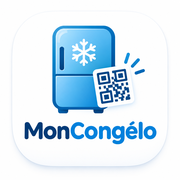
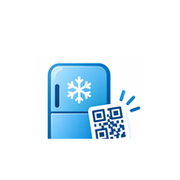
Add files via upload

diff --git a/index.html b/index.html
@@ -1,44 +1,45 @@
 <!doctype html>
 <html lang="fr"><head><meta charset="utf-8"><meta name="viewport" content="width=device-width,initial-scale=1,viewport-fit=cover"><meta name="theme-color" content="#123c67"><meta name="apple-mobile-web-app-capable" content="yes"><meta name="apple-mobile-web-app-title" content="MonCongélo"><link rel="manifest" href="manifest.json"><link rel="apple-touch-icon" href="icon-192.png"><title>MonCongélo</title>
 <style>
-:root{--navy:#123c67;--blue:#2678b8;--pale:#eef6fc;--ink:#183047;--muted:#64748b;--line:#d8e3ec;--red:#a52b2b}*{box-sizing:border-box}body{margin:0;background:#f4f8fb;color:var(--ink);font-family:-apple-system,BlinkMacSystemFont,"Segoe UI",sans-serif}header{background:var(--navy);color:white;padding:calc(14px + env(safe-area-inset-top)) 18px 18px;text-align:center}header img{width:72px;height:72px;object-fit:cover;border-radius:18px;background:white}header h1{margin:8px 0 3px;font-size:25px}header p{margin:0;color:#d9e9f7;font-size:14px}.wrap{max-width:760px;margin:auto;padding:16px 14px 40px}.home-actions{display:grid;grid-template-columns:1fr 1fr;gap:12px;margin:8px 0 20px}.big{min-height:104px;border:0;border-radius:18px;padding:16px;background:white;box-shadow:0 3px 12px #123c6710;color:var(--navy);font-size:16px;font-weight:750;text-align:left}.big span{display:block;font-size:29px;margin-bottom:8px}.panel{background:white;border:1px solid var(--line);border-radius:16px;padding:16px;margin:12px 0;box-shadow:0 2px 8px #123c6708}.hidden{display:none!important}h2{font-size:20px;margin:4px 0 14px}h3{font-size:16px;margin:0 0 8px}button,.button{border:0;border-radius:11px;background:var(--blue);color:white;font-weight:650;font-size:15px;padding:12px 14px;cursor:pointer;text-align:center;display:inline-block}button.secondary,.button.secondary{background:#edf4fa;color:var(--navy);border:1px solid #c9dbe9}button.danger{background:#fff0f0;color:var(--red);border:1px solid #efcaca}.actions{display:flex;flex-wrap:wrap;gap:8px;margin-top:12px}.actions button{flex:1}.field{margin:12px 0}label{display:block;font-size:14px;font-weight:700;margin-bottom:6px}input,textarea{width:100%;border:1px solid #c8d7e3;border-radius:10px;padding:12px;font:inherit;background:#fff;color:var(--ink)}textarea{min-height:78px;resize:vertical}input[type=file]{padding:9px}input[type=search]{background:white}.hint,.muted{color:var(--muted);font-size:13px;line-height:1.45}.topline{display:flex;align-items:center;justify-content:space-between;gap:10px}.topline button{padding:9px 11px}.stats{font-size:13px;color:var(--muted);margin:10px 2px}.item{display:grid;grid-template-columns:82px 1fr;gap:12px;padding:12px 0;border-top:1px solid var(--line)}.item img,.placeholder{width:82px;height:82px;border-radius:12px;object-fit:cover;background:var(--pale);display:flex;align-items:center;justify-content:center;font-size:27px}.item h3{margin:2px 0 5px}.item p{margin:3px 0;font-size:13px;color:var(--muted)}.item button{padding:8px 10px;font-size:13px;margin:5px 5px 0 0}.preview{max-width:180px;max-height:180px;border-radius:12px;display:block;margin-top:8px}.scan-video{width:100%;border-radius:12px;background:#111;max-height:330px}.code-chip{font-family:ui-monospace,monospace;background:#f1f6fa;padding:4px 7px;border-radius:6px;font-size:12px;overflow-wrap:anywhere}.foot{font-size:12px;text-align:center;color:var(--muted);margin:25px 5px}.notice{padding:11px;border-radius:10px;background:#fff7df;color:#70551a;font-size:13px;line-height:1.45}.backup-label{display:inline-block}.home-link{margin-top:10px}
-@media(max-width:390px){.home-actions{grid-template-columns:1fr}.big{min-height:75px}.big span{display:inline;margin-right:8px}}
+:root{--navy:#123c67;--blue:#167ac2;--pale:#eef6fc;--ink:#183047;--muted:#64748b;--line:#d8e3ec;--red:#c92d37}*{box-sizing:border-box}body{margin:0;background:#f4f8fb;color:var(--ink);font-family:-apple-system,BlinkMacSystemFont,"Segoe UI",sans-serif}header{background:var(--navy);color:white;padding:calc(12px + env(safe-area-inset-top)) 16px 14px;text-align:center}header img{width:64px;height:64px;object-fit:contain;border-radius:16px;background:white}header h1{margin:6px 0 0;font-size:24px}header p{margin:0;color:#d9e9f7;font-size:13px}.wrap{max-width:760px;margin:auto;padding:14px 14px 40px}.home-actions{display:flex;flex-direction:column;align-items:center;gap:14px;margin:14px 0 20px}.big{width:100%;max-width:460px;min-height:170px;border:0;border-radius:24px;padding:22px;background:linear-gradient(145deg,#1689d4,#075a9f);box-shadow:0 7px 18px #123c6726;color:white;font-size:22px;font-weight:800;text-align:center}.big span{display:block;font-size:54px;line-height:1.15;margin-bottom:9px}.big.secondary-home{min-height:68px;max-width:460px;background:white;color:var(--navy);border:2px solid #b6d7ef;font-size:18px;padding:15px}.big.secondary-home span{display:inline;font-size:23px;margin:0 8px 0 0}.panel{background:white;border:1px solid var(--line);border-radius:16px;padding:16px;margin:12px 0;box-shadow:0 2px 8px #123c6708}.hidden{display:none!important}h2{font-size:20px;margin:4px 0 14px}h3{font-size:16px;margin:0 0 8px}button,.button{border:0;border-radius:11px;background:var(--blue);color:white;font-weight:650;font-size:15px;padding:11px 13px;cursor:pointer;text-align:center;display:inline-block}button.secondary,.button.secondary{background:#edf4fa;color:var(--navy);border:1px solid #c9dbe9}button.danger{background:#fff0f0;color:var(--red);border:1px solid #efcaca}.actions{display:flex;flex-wrap:wrap;gap:8px;margin-top:12px}.actions button{flex:1}.field{margin:12px 0}label{display:block;font-size:14px;font-weight:700;margin-bottom:6px}input,textarea,select{display:block;width:100%;max-width:100%;min-width:0;border:1px solid #c8d7e3;border-radius:10px;padding:11px 12px;font:inherit;background:#fff;color:var(--ink);text-align:left}textarea{min-height:78px;resize:vertical}input[type=file]{display:none}input[type=search]{background:white}.hint,.muted{color:var(--muted);font-size:13px;line-height:1.45}.topline{display:flex;align-items:center;justify-content:space-between;gap:10px;margin-bottom:10px}.topline button{padding:9px 11px;white-space:nowrap}.topline h2{margin:0}.stats{font-size:13px;color:var(--muted);margin:10px 2px}.item{display:grid;grid-template-columns:82px 1fr;gap:12px;padding:12px 0;border-top:1px solid var(--line)}.item img,.placeholder{width:82px;height:82px;border-radius:12px;object-fit:cover;background:var(--pale);display:flex;align-items:center;justify-content:center;font-size:27px}.item h3{margin:2px 0 5px}.item h3 button{padding:0;background:transparent;border:0;color:var(--navy);font-size:16px;text-align:left}.item p{margin:4px 0;font-size:13px;color:var(--muted)}.preview{max-width:100%;width:180px;max-height:180px;object-fit:cover;border-radius:12px;display:block;margin-top:8px}.scan-video{width:100%;border-radius:12px;background:#111;max-height:55vh;object-fit:cover}.foot{font-size:12px;text-align:center;color:var(--muted);margin:25px 5px}.notice{padding:11px;border-radius:10px;background:#fff7df;color:#70551a;font-size:13px;line-height:1.45}.photo-button{width:100%;min-height:72px;background:#edf6fc;color:var(--navy);border:1px solid #c9dbe9;font-size:30px}.photo-button small{display:block;font-size:12px;font-weight:600}.photo-preview-row{display:flex;gap:12px;align-items:center}.photo-preview-row .preview{width:92px;height:92px;margin:0}.detail-photo{width:100%;max-height:300px;object-fit:cover;border-radius:14px}.detail-line{display:flex;gap:10px;align-items:flex-start;margin:12px 0}.detail-line .symbol{width:24px;font-size:18px;text-align:center}.detail-line p{margin:0;overflow-wrap:anywhere}.sort-select{max-width:100%;}.secondary-link{background:transparent;color:var(--navy);padding:8px 0;text-decoration:underline;border:0}.scan-message{text-align:center;font-size:14px;color:var(--muted)}
 </style></head><body>
-<header><img src="icon-192.png" alt="Logo MonCongélo"><h1>MonCongélo</h1><p>Votre inventaire de congélateur</p></header>
+<header><img src="icon-192.png" alt="Logo MonCongélo"><h1>MonCongélo</h1></header>
 <main class="wrap">
-<section id="home"><div class="home-actions"><button class="big" id="openGenerator"><span>▦</span>Générateur QR Code</button><button class="big" id="openInventory"><span>❄</span>Congélateur</button></div><div class="panel"><h2>Bienvenue !</h2><p class="muted">Chaque sac ou contenant possède sa propre étiquette QR. Scannez une étiquette pour retrouver sa fiche ou créer une nouvelle fiche.</p><div class="actions"><button class="secondary" id="homeScan">Scanner une étiquette QR</button><button class="secondary" id="backupHome">Sauvegarder mes données</button></div></div><div class="notice">Les fiches et photos restent sur cet iPhone. Faites régulièrement une sauvegarde et conservez le fichier en lieu sûr.</div></section>
-<section id="inventory" class="hidden"><div class="topline"><h2>Mon congélateur</h2><button class="secondary" id="backHome1">Accueil</button></div><div class="actions"><button id="scanBtn">Scanner une étiquette QR</button><button class="secondary" id="newManualBtn">Nouvelle fiche</button></div><div class="field"><label for="search">Rechercher un aliment</label><input type="search" id="search" placeholder="Ex. soupe, tomates, sauce…"></div><div id="stats" class="stats"></div><div id="items"></div></section>
-<section id="editor" class="hidden"><div class="topline"><h2 id="editorTitle">Nouvel aliment</h2><button class="secondary" id="cancelEditor">Retour</button></div><div class="panel"><p class="muted">Étiquette QR associée : <span id="linkedCode" class="code-chip">Aucune</span></p><div class="field"><label for="foodName">Nom de l’aliment *</label><input id="foodName" maxlength="120" placeholder="Ex. soupe de légumes" required></div><div class="field"><label for="freezeDate">Date de congélation *</label><input type="date" id="freezeDate" required></div><div class="field"><label for="quantity">Nombre de portions / quantité</label><input id="quantity" maxlength="80" placeholder="Ex. 2 portions, 500 g"></div><div class="field"><label for="photo">Photo de l’aliment</label><input id="photo" type="file" accept="image/*" capture="environment"><img id="photoPreview" class="preview hidden" alt="Aperçu de la photo"><p class="hint">La photo est réduite pour économiser la place sur le téléphone.</p></div><div class="field"><label for="comment">Commentaire (facultatif)</label><textarea id="comment" maxlength="500" placeholder="Ex. sans sel, à consommer rapidement…"></textarea></div><div class="actions"><button id="saveItem">Enregistrer</button><button class="secondary" id="duplicateSave">Dupliquer la fiche</button></div><p class="hint">La duplication crée une fiche indépendante et remet la date à aujourd’hui. Vous devrez associer une autre étiquette QR à ce nouveau sac.</p></div></section>
-<section id="scanner" class="hidden"><div class="topline"><h2>Scanner une étiquette</h2><button class="secondary" id="closeScanner">Retour</button></div><div class="panel"><p class="muted">Autorisez l’accès à l’appareil photo, puis placez le QR code dans le cadre. Si le scanner ne fonctionne pas, saisissez le code manuellement ci-dessous.</p><video id="video" class="scan-video" playsinline muted></video><canvas id="canvas" class="hidden"></canvas><div class="actions"><button id="startCamera">Démarrer la caméra</button><button class="secondary" id="stopCamera">Arrêter</button></div><div class="field"><label for="manualCode">Ou saisir / coller le code QR</label><input id="manualCode" autocomplete="off" placeholder="Code inscrit dans l’historique QR"><button id="useManual" style="margin-top:8px;width:100%">Utiliser ce code</button></div><p id="scanStatus" class="hint" role="status"></p></div></section>
-<section id="settings" class="hidden"><div class="topline"><h2>Sauvegarde</h2><button class="secondary" id="backHome2">Accueil</button></div><div class="panel"><h3>Exporter une sauvegarde</h3><p class="muted">Crée un fichier contenant les fiches et les photos. Gardez-le dans Fichiers ou sur un autre support.</p><button id="exportBackup">Exporter mes données</button><hr style="border:0;border-top:1px solid var(--line);margin:18px 0"><h3>Restaurer une sauvegarde</h3><p class="muted">La restauration remplace l’inventaire actuellement enregistré sur cet iPhone.</p><label class="backup-label" for="importFile">Choisir un fichier de sauvegarde JSON</label><input type="file" id="importFile" accept="application/json,.json"><button id="importBackup" class="secondary" style="margin-top:8px">Restaurer la sauvegarde</button><p class="hint">Conseil : exportez une sauvegarde avant de restaurer.</p></div></section>
-<div class="foot">MonCongélo · Données conservées localement sur cet appareil</div>
-</main>
+<section id="home"><div class="home-actions"><button class="big" id="homeScan"><span>▦</span>Scanner un QR code</button><button class="big secondary-home" id="openInventory"><span>❄</span>Congélateur</button></div><div class="panel"><button class="secondary" id="openGenerator">Générateur de QR codes</button> <button class="secondary" id="backupHome">Sauvegarder / restaurer</button></div><p class="notice">Vos fiches et photos restent sur cet iPhone. Pensez à effectuer régulièrement une sauvegarde.</p></section>
+<section id="inventory" class="hidden"><div class="topline"><button class="secondary" id="backHome1">‹ Retour</button><h2>Congélateur</h2><button class="secondary" id="openGenerator2">QR codes</button></div><div class="field"><label for="search">Rechercher un aliment</label><input type="search" id="search" placeholder="Ex. soupe, tomates, sauce…"></div><div class="field"><label for="sortOrder">Trier par</label><select id="sortOrder" class="sort-select"><option value="name">Ordre alphabétique (A → Z)</option><option value="dateAsc">Date de congélation (plus ancienne d’abord)</option><option value="qtyAsc">Nombre de portions croissant</option><option value="qtyDesc">Nombre de portions décroissant</option></select></div><div id="stats" class="stats"></div><div id="items"></div></section>
+<section id="editor" class="hidden"><div class="topline"><button class="secondary" id="cancelEditor">‹ Retour</button><h2 id="editorTitle">Nouvel aliment</h2><span style="width:55px"></span></div><div class="panel"><div class="field"><label for="foodName">Nom de l’aliment *</label><input id="foodName" maxlength="120" placeholder="Ex. saumon" required></div><div class="field"><label for="quantity">Nombre de portions</label><select id="quantity"><option value="1">1 portion</option><option value="2">2 portions</option><option value="3">3 portions</option><option value="4">4 portions</option><option value="5">5 portions</option><option value="6">6 portions</option><option value="7">7 portions</option><option value="8">8 portions</option><option value="9">9 portions</option><option value="10">10 portions</option></select></div><div class="field"><label for="freezeDate">Date de congélation *</label><input type="date" id="freezeDate" required></div><div class="field"><label for="comment">Commentaire (facultatif)</label><textarea id="comment" maxlength="500" placeholder="Ex. très bon produit"></textarea></div><div class="field"><label>Photo</label><div class="photo-preview-row"><img id="photoPreview" class="preview hidden" alt="Photo de l’aliment"><button class="photo-button" id="photoButton" type="button">📷<small>Prendre / choisir une photo</small></button></div><input id="photo" type="file" accept="image/*" capture="environment"></div><div class="actions"><button id="saveItem">Enregistrer</button><button class="secondary hidden" id="cancelEdit">Annuler les modifications</button></div><p id="editorHint" class="hint"></p></div></section>
+<section id="detail" class="hidden"><div class="topline"><button class="secondary" id="detailBack">‹ Retour</button><h2>Fiche aliment</h2><span style="width:55px"></span></div><div class="panel"><div class="actions" style="margin-top:0"><button id="editDetail">✎ Modifier</button><button class="danger" id="deleteDetail">Supprimer</button></div><img id="detailPhoto" class="detail-photo hidden" alt="Photo de l’aliment" style="margin-top:14px"><div class="detail-line"><span class="symbol">❄</span><p><strong id="detailName"></strong></p></div><div class="detail-line"><span class="symbol">♙</span><p id="detailQty"></p></div><div class="detail-line"><span class="symbol">▦</span><p id="detailDate"></p></div><div class="detail-line" id="detailCommentLine"><span class="symbol">☷</span><p id="detailComment"></p></div></div></section>
+<section id="scanner" class="hidden"><div class="topline"><button class="secondary" id="closeScanner">‹ Retour</button><h2>Scanner un QR code</h2><span style="width:55px"></span></div><div class="panel"><video id="video" class="scan-video" playsinline muted></video><canvas id="canvas" class="hidden"></canvas><p id="scanStatus" class="scan-message" role="status">Démarrage de la caméra…</p></div></section>
+<section id="settings" class="hidden"><div class="topline"><button class="secondary" id="backHome2">‹ Retour</button><h2>Sauvegarde</h2><span style="width:55px"></span></div><div class="panel"><h3>Sauvegarder mes données</h3><p class="muted">Exporte les fiches et les photos dans un fichier que vous pouvez conserver dans l’app Fichiers ou sur un autre support.</p><button id="exportBackup">Sauvegarder mes données</button><hr style="border:0;border-top:1px solid var(--line);margin:18px 0"><h3>Restaurer mes données</h3><p class="muted">La restauration remplace l’inventaire actuel de cet iPhone.</p><label class="secondary" style="padding:10px;border-radius:9px;border:1px solid #c9dbe9" for="importFile">Choisir une sauvegarde</label><input type="file" id="importFile" accept="application/json,.json"><button id="importBackup" class="secondary" style="margin-top:12px">Restaurer mes données</button></div></section>
+<div class="foot">MonCongélo · Données conservées localement sur cet appareil</div></main>
 <script src="https://cdn.jsdelivr.net/npm/jsqr@1.4.0/dist/jsQR.js"></script>
 <script>
 (()=>{
-const DB='MonCongeloDB',STORE='items';let db,editingId=null,linkedQr='',draftPhoto='',cameraStream=null,scanLoop=null,duplicateMode=false;
+const DB='MonCongeloDB',STORE='items';let db,editingId=null,linkedQr='',draftPhoto='',cameraStream=null,scanLoop=null,detailId=null,scannerStarting=false;
 const $=id=>document.getElementById(id);const today=()=>new Date().toLocaleDateString('sv-SE');
 function openDB(){return new Promise((resolve,reject)=>{const req=indexedDB.open(DB,1);req.onupgradeneeded=()=>req.result.createObjectStore(STORE,{keyPath:'id'});req.onsuccess=()=>{db=req.result;resolve(db)};req.onerror=()=>reject(req.error)})}
 function allItems(){return new Promise((resolve,reject)=>{const r=db.transaction(STORE).objectStore(STORE).getAll();r.onsuccess=()=>resolve(r.result||[]);r.onerror=()=>reject(r.error)})}
 function put(item){return new Promise((resolve,reject)=>{const r=db.transaction(STORE,'readwrite').objectStore(STORE).put(item);r.onsuccess=()=>resolve();r.onerror=()=>reject(r.error)})}
 function remove(id){return new Promise((resolve,reject)=>{const r=db.transaction(STORE,'readwrite').objectStore(STORE).delete(id);r.onsuccess=()=>resolve();r.onerror=()=>reject(r.error)})}
 function replaceAll(items){return new Promise((resolve,reject)=>{const tx=db.transaction(STORE,'readwrite'),s=tx.objectStore(STORE);s.clear();items.forEach(x=>s.put(x));tx.oncomplete=resolve;tx.onerror=()=>reject(tx.error)})}
-function show(section){['home','inventory','editor','scanner','settings'].forEach(id=>$(id).classList.toggle('hidden',id!==section));if(section==='inventory')renderItems()}
+function stopCamera(){scannerStarting=false;if(scanLoop){cancelAnimationFrame(scanLoop);scanLoop=null}if(cameraStream){cameraStream.getTracks().forEach(t=>t.stop());cameraStream=null}$('video').srcObject=null}
+function show(section){if(section!=='scanner')stopCamera();['home','inventory','editor','detail','scanner','settings'].forEach(id=>$(id).classList.toggle('hidden',id!==section));if(section==='inventory')renderItems();if(section==='scanner')startCamera()}
 function escapeHtml(s=''){return String(s).replace(/[&<>"']/g,c=>({'&':'&amp;','<':'&lt;','>':'&gt;','"':'&quot;',"'":'&#39;'}[c]))}
 function dateFmt(d){if(!d)return 'Date inconnue';const a=d.split('-');return a.length===3?`${a[2]}/${a[1]}/${a[0]}`:d}
-async function renderItems(){const items=(await allItems()).sort((a,b)=>(b.freezeDate||'').localeCompare(a.freezeDate||''));const q=$('search').value.trim().toLocaleLowerCase('fr');const filtered=items.filter(x=>(x.name||'').toLocaleLowerCase('fr').includes(q));$('stats').textContent=`${filtered.length} fiche${filtered.length>1?'s':''}${q?' trouvée(s)':' dans le congélateur'}`;const root=$('items');root.innerHTML='';if(!filtered.length){root.innerHTML='<p class="muted">Aucun aliment ici pour le moment. Scannez une étiquette QR pour commencer.</p>';return}filtered.forEach(x=>{const row=document.createElement('article');row.className='item';const im=x.photo?`<img src="${x.photo}" alt="Photo de ${escapeHtml(x.name)}">`:'<div class="placeholder">❄</div>';row.innerHTML=`${im}<div><h3>${escapeHtml(x.name)}</h3><p>Congelé le ${dateFmt(x.freezeDate)}</p><p>${escapeHtml(x.quantity||'Quantité non précisée')}</p><p>QR : <span class="code-chip">${escapeHtml(x.qr||'non associé')}</span></p><div><button class="secondary" data-edit="${x.id}">Ouvrir</button><button class="secondary" data-dup="${x.id}">Dupliquer</button><button class="danger" data-del="${x.id}">Supprimer</button></div></div>`;root.append(row)});root.querySelectorAll('[data-edit]').forEach(b=>b.onclick=()=>editItem(b.dataset.edit));root.querySelectorAll('[data-dup]').forEach(b=>b.onclick=async()=>{const x=(await allItems()).find(i=>i.id===b.dataset.dup);if(x){editingId=null;linkedQr='';draftPhoto=x.photo||'';duplicateMode=true;fillEditor({...x,id:null,qr:'',freezeDate:today()});$('editorTitle').textContent='Dupliquer la fiche';show('editor')}});root.querySelectorAll('[data-del]').forEach(b=>b.onclick=async()=>{const x=items.find(i=>i.id===b.dataset.del);if(x&&confirm(`Supprimer la fiche « ${x.name} » ? Vous pourrez réutiliser son étiquette QR.`)){await remove(x.id);renderItems()}})}
-function fillEditor(x={}){$('foodName').value=x.name||'';$('freezeDate').value=x.freezeDate||today();$('quantity').value=x.quantity||'';$('comment').value=x.comment||'';$('linkedCode').textContent=x.qr||'Aucune — scannez une étiquette';$('photo').value='';$('photoPreview').src=x.photo||'';$('photoPreview').classList.toggle('hidden',!x.photo);draftPhoto=x.photo||''}
-async function editItem(id){const x=(await allItems()).find(i=>i.id===id);if(!x)return;editingId=id;linkedQr=x.qr||'';duplicateMode=false;fillEditor(x);$('editorTitle').textContent='Modifier la fiche';$('duplicateSave').classList.remove('hidden');show('editor')}
-function newItem(qr=''){editingId=null;linkedQr=qr;duplicateMode=false;fillEditor({qr,freezeDate:today()});$('editorTitle').textContent='Nouvel aliment';show('editor')}
-async function saveRecord(duplicate=false){const name=$('foodName').value.trim();if(!name){alert('Veuillez saisir le nom de l’aliment.');return}const items=await allItems();let qr=linkedQr;const existing=items.find(x=>x.qr===qr&&x.id!==editingId);if(qr&&existing){alert('Cette étiquette QR est déjà associée à une autre fiche. Scannez une étiquette libre.');return}if(duplicate||duplicateMode){qr='';}const old=items.find(x=>x.id===editingId);const rec={id:(!duplicate&&!duplicateMode&&editingId)?editingId:crypto.randomUUID(),name,freezeDate:$('freezeDate').value||today(),quantity:$('quantity').value.trim(),photo:draftPhoto,comment:$('comment').value.trim(),qr:qr||'',updatedAt:new Date().toISOString()};if(!rec.qr){const candidate=prompt('Pour associer une étiquette, scannez son QR code avant de créer la fiche. Vous pouvez aussi enregistrer sans QR et l’associer plus tard. Laisser vide pour continuer sans QR.','');if(candidate&&candidate.trim()){const c=candidate.trim();if(items.some(x=>x.qr===c)){alert('Ce QR code est déjà utilisé.');return}rec.qr=c}}await put(rec);show('inventory');$('search').value='';await renderItems()}
-async function handleCode(code){code=String(code||'').trim();if(!code)return;stopCamera();$('manualCode').value=code;const items=await allItems();const found=items.find(x=>x.qr===code);if(found){editingId=found.id;linkedQr=code;fillEditor(found);$('editorTitle').textContent='Fiche trouvée';show('editor')}else{newItem(code);$('scanStatus').textContent='QR libre détecté : complétez la fiche de ce sac.'}}
-function stopCamera(){if(scanLoop){cancelAnimationFrame(scanLoop);scanLoop=null}if(cameraStream){cameraStream.getTracks().forEach(t=>t.stop());cameraStream=null}$('video').srcObject=null}
-async function startCamera(){try{if(!navigator.mediaDevices?.getUserMedia)throw new Error('Caméra non disponible dans ce navigateur.');cameraStream=await navigator.mediaDevices.getUserMedia({video:{facingMode:'environment'},audio:false});$('video').srcObject=cameraStream;await $('video').play();$('scanStatus').textContent='Caméra active : présentez le QR code.';const c=$('canvas'),ctx=c.getContext('2d',{willReadFrequently:true});const loop=()=>{if(!cameraStream)return;if($('video').readyState>=2){c.width=$('video').videoWidth;c.height=$('video').videoHeight;ctx.drawImage($('video'),0,0,c.width,c.height);if(window.jsQR){const im=ctx.getImageData(0,0,c.width,c.height),code=jsQR(im.data,im.width,im.height,{inversionAttempts:'attemptBoth'});if(code?.data){handleCode(code.data);return}}}scanLoop=requestAnimationFrame(loop)};loop()}catch(e){$('scanStatus').textContent='Impossible d’ouvrir la caméra. Vérifiez l’autorisation et utilisez la saisie manuelle si nécessaire. '+e.message}}
+function qtyNumber(x){const n=parseInt(x.quantity,10);return Number.isFinite(n)?n:1}
+async function renderItems(){const all=await allItems();const q=$('search').value.trim().toLocaleLowerCase('fr');let items=all.filter(x=>(x.name||'').toLocaleLowerCase('fr').includes(q));const mode=$('sortOrder').value;items.sort((a,b)=>{if(mode==='dateAsc')return (a.freezeDate||'9999').localeCompare(b.freezeDate||'9999');if(mode==='qtyAsc')return qtyNumber(a)-qtyNumber(b)||(a.name||'').localeCompare(b.name||'','fr');if(mode==='qtyDesc')return qtyNumber(b)-qtyNumber(a)||(a.name||'').localeCompare(b.name||'','fr');return (a.name||'').localeCompare(b.name||'','fr',{sensitivity:'base'})});$('stats').textContent=`${items.length} fiche${items.length>1?'s':''}${q?' trouvée(s)':' dans le congélateur'}`;const root=$('items');root.innerHTML='';if(!items.length){root.innerHTML='<p class="muted">Aucun aliment ici pour le moment. Utilisez « Scanner un QR code » pour commencer.</p>';return}items.forEach(x=>{const row=document.createElement('article');row.className='item';const im=x.photo?`<img src="${x.photo}" alt="Photo de ${escapeHtml(x.name)}">`:'<div class="placeholder">❄</div>';const qty=qtyNumber(x);row.innerHTML=`${im}<div><h3><button type="button" data-open="${escapeHtml(x.id)}">${escapeHtml(x.name)}</button></h3><p>${qty} portion${qty>1?'s':''}</p><p>${dateFmt(x.freezeDate)}</p></div>`;root.append(row)});root.querySelectorAll('[data-open]').forEach(b=>b.onclick=()=>openDetail(b.dataset.open))}
+function fillEditor(x={}){$('foodName').value=x.name||'';$('freezeDate').value=x.freezeDate||today();let q=String(x.quantity||'1').match(/\d+/);$('quantity').value=String(Math.min(10,Math.max(1,parseInt(q?.[0]||'1',10))));$('comment').value=x.comment||'';$('photo').value='';$('photoPreview').src=x.photo||'';$('photoPreview').classList.toggle('hidden',!x.photo);draftPhoto=x.photo||'';$('editorHint').textContent=x.qr?'Étiquette associée enregistrée automatiquement.':'Le code QR reste masqué et sera associé automatiquement après le scan.'}
+function newItem(qr=''){editingId=null;linkedQr=qr;fillEditor({qr,freezeDate:today(),quantity:'1'});$('editorTitle').textContent='Nouvel aliment';$('saveItem').textContent='Enregistrer';$('cancelEdit').classList.add('hidden');show('editor')}
+async function editItem(id){const x=(await allItems()).find(i=>i.id===id);if(!x)return;editingId=id;linkedQr=x.qr||'';fillEditor(x);$('editorTitle').textContent='Modifier l’aliment';$('saveItem').textContent='Enregistrer les modifications';$('cancelEdit').classList.remove('hidden');show('editor')}
+async function openDetail(id){const x=(await allItems()).find(i=>i.id===id);if(!x)return;detailId=id;$('detailName').textContent=x.name||'';$('detailQty').textContent=`${qtyNumber(x)} portion${qtyNumber(x)>1?'s':''}`;$('detailDate').textContent=dateFmt(x.freezeDate);$('detailComment').textContent=x.comment||'';$('detailCommentLine').classList.toggle('hidden',!x.comment);$('detailPhoto').src=x.photo||'';$('detailPhoto').classList.toggle('hidden',!x.photo);show('detail')}
+async function saveRecord(){const name=$('foodName').value.trim();if(!name){alert('Veuillez saisir le nom de l’aliment.');return}const items=await allItems();const duplicate=items.find(x=>x.qr===linkedQr&&linkedQr&&x.id!==editingId);if(duplicate){alert('Cette étiquette QR est déjà associée à une autre fiche.');return}const rec={id:editingId||crypto.randomUUID(),name,freezeDate:$('freezeDate').value||today(),quantity:String($('quantity').value||'1'),photo:draftPhoto,comment:$('comment').value.trim(),qr:linkedQr||'',updatedAt:new Date().toISOString()};await put(rec);if(editingId)await openDetail(rec.id);else show('inventory')}
+async function deleteCurrent(){const items=await allItems(),x=items.find(i=>i.id===detailId);if(!x)return;if(confirm(`Supprimer la fiche « ${x.name} » ? Son étiquette QR pourra ensuite être réutilisée.`)){await remove(x.id);detailId=null;show('inventory')}}
+async function handleCode(code){code=String(code||'').trim();if(!code)return;stopCamera();const items=await allItems();const found=items.find(x=>x.qr===code);if(found){await openDetail(found.id)}else{newItem(code)}}
+async function startCamera(){if(scannerStarting||cameraStream)return;scannerStarting=true;$('scanStatus').textContent='Démarrage de la caméra…';try{if(!navigator.mediaDevices?.getUserMedia)throw new Error('La caméra nécessite Safari et une adresse HTTPS.');cameraStream=await navigator.mediaDevices.getUserMedia({video:{facingMode:{ideal:'environment'}},audio:false});if($('scanner').classList.contains('hidden')){stopCamera();return}$('video').srcObject=cameraStream;await $('video').play();$('scanStatus').textContent='Caméra active : présentez le QR code.';scannerStarting=false;const c=$('canvas'),ctx=c.getContext('2d',{willReadFrequently:true});const loop=()=>{if(!cameraStream||$('scanner').classList.contains('hidden'))return;if($('video').readyState>=2&&window.jsQR){c.width=$('video').videoWidth;c.height=$('video').videoHeight;ctx.drawImage($('video'),0,0,c.width,c.height);const im=ctx.getImageData(0,0,c.width,c.height),result=jsQR(im.data,im.width,im.height,{inversionAttempts:'attemptBoth'});if(result?.data){handleCode(result.data);return}}scanLoop=requestAnimationFrame(loop)};loop()}catch(e){scannerStarting=false;stopCamera();$('scanStatus').textContent='Impossible d’ouvrir la caméra. Autorisez l’accès à la caméra dans Safari et vérifiez que le site est en HTTPS. '+(e.message||'')}}
 async function compressPhoto(file){return new Promise((resolve,reject)=>{const img=new Image(),url=URL.createObjectURL(file);img.onload=()=>{const max=900,scale=Math.min(1,max/Math.max(img.width,img.height)),c=document.createElement('canvas');c.width=Math.round(img.width*scale);c.height=Math.round(img.height*scale);c.getContext('2d').drawImage(img,0,0,c.width,c.height);URL.revokeObjectURL(url);resolve(c.toDataURL('image/jpeg',.72))};img.onerror=reject;img.src=url})}
 function download(text,filename,type='application/json'){const a=document.createElement('a');a.href=URL.createObjectURL(new Blob([text],{type}));a.download=filename;a.click();setTimeout(()=>URL.revokeObjectURL(a.href),1500)}
-async function exportData(){const items=await allItems();download(JSON.stringify({app:'MonCongélo',version:1,exportedAt:new Date().toISOString(),items},null,2),`moncongelo-sauvegarde-${today()}.json`)}
-$('openGenerator').onclick=()=>location.href='qr-generator.html';$('openInventory').onclick=()=>show('inventory');$('homeScan').onclick=$('scanBtn').onclick=()=>{show('scanner');$('scanStatus').textContent='';};$('newManualBtn').onclick=()=>newItem('');$('backHome1').onclick=$('backHome2').onclick=()=>show('home');$('cancelEditor').onclick=()=>show('inventory');$('closeScanner').onclick=()=>{stopCamera();show('inventory')};$('startCamera').onclick=startCamera;$('stopCamera').onclick=stopCamera;$('useManual').onclick=()=>handleCode($('manualCode').value);$('search').oninput=renderItems;$('saveItem').onclick=()=>saveRecord(false);$('duplicateSave').onclick=()=>saveRecord(true);$('photo').onchange=async e=>{const f=e.target.files?.[0];if(f){try{draftPhoto=await compressPhoto(f);$('photoPreview').src=draftPhoto;$('photoPreview').classList.remove('hidden')}catch(err){alert('La photo n’a pas pu être chargée.')}}};$('backupHome').onclick=()=>{show('settings')};$('exportBackup').onclick=exportData;$('importBackup').onclick=async()=>{const f=$('importFile').files?.[0];if(!f){alert('Choisissez un fichier de sauvegarde.');return}if(!confirm('Cette opération remplacera toutes les fiches actuelles. Continuer ?'))return;try{const data=JSON.parse(await f.text());if(data.app!=='MonCongélo'||!Array.isArray(data.items))throw new Error('Fichier non reconnu');await replaceAll(data.items);alert('Sauvegarde restaurée.');show('inventory')}catch(e){alert('Impossible de restaurer ce fichier : '+e.message)}};
-openDB().then(()=>{if('serviceWorker'in navigator)navigator.serviceWorker.register('./sw.js').catch(()=>{});}).catch(()=>alert('Le stockage local ne peut pas être ouvert dans ce navigateur.'));
-window.addEventListener('pagehide',stopCamera);
+async function exportData(){const items=await allItems();download(JSON.stringify({app:'MonCongélo',version:2,exportedAt:new Date().toISOString(),items},null,2),`moncongelo-sauvegarde-${today()}.json`)}
+$('homeScan').onclick=()=>show('scanner');$('openInventory').onclick=()=>show('inventory');$('openGenerator').onclick=$('openGenerator2').onclick=()=>location.href='qr-generator.html';$('backupHome').onclick=()=>show('settings');$('backHome1').onclick=$('backHome2').onclick=()=>show('home');$('cancelEditor').onclick=()=>editingId?openDetail(editingId):show('inventory');$('cancelEdit').onclick=()=>editingId?openDetail(editingId):show('inventory');$('detailBack').onclick=()=>show('inventory');$('closeScanner').onclick=()=>show('home');$('search').oninput=renderItems;$('sortOrder').onchange=renderItems;$('saveItem').onclick=saveRecord;$('editDetail').onclick=()=>editItem(detailId);$('deleteDetail').onclick=deleteCurrent;$('photoButton').onclick=()=>$('photo').click();$('photo').onchange=async e=>{const f=e.target.files?.[0];if(f){try{draftPhoto=await compressPhoto(f);$('photoPreview').src=draftPhoto;$('photoPreview').classList.remove('hidden')}catch(err){alert('La photo n’a pas pu être chargée.')}}};$('exportBackup').onclick=exportData;$('importBackup').onclick=async()=>{const f=$('importFile').files?.[0];if(!f){alert('Choisissez un fichier de sauvegarde.');return}if(!confirm('Cette opération remplacera toutes les fiches actuelles. Continuer ?'))return;try{const data=JSON.parse(await f.text());if(data.app!=='MonCongélo'||!Array.isArray(data.items))throw new Error('Fichier non reconnu');await replaceAll(data.items);alert('Sauvegarde restaurée.');show('inventory')}catch(e){alert('Impossible de restaurer ce fichier : '+e.message)}};
+openDB().then(()=>{if('serviceWorker'in navigator)navigator.serviceWorker.register('./sw.js').catch(()=>{});}).catch(()=>alert('Le stockage local ne peut pas être ouvert dans ce navigateur.'));window.addEventListener('pagehide',stopCamera);
 })();
 </script></body></html>

diff --git a/qr-generator.html b/qr-generator.html
@@ -2,10 +2,10 @@
 <html lang="fr"><head><meta charset="utf-8"><meta name="viewport" content="width=device-width,initial-scale=1,viewport-fit=cover"><meta name="apple-mobile-web-app-capable" content="yes"><meta name="apple-mobile-web-app-title" content="Mes planches QR"><title>MonCongélo — Générateur QR</title>
 <script src="https://cdn.jsdelivr.net/gh/davidshimjs/qrcodejs/qrcode.min.js"></script>
 <style>
-*{box-sizing:border-box}body{margin:0;background:#f3f4f6;color:#111;font-family:-apple-system,BlinkMacSystemFont,sans-serif}header,.controls,.history{max-width:780px;margin:auto;padding:16px}h1{font-size:25px;margin:0 0 6px}p{line-height:1.4}button{border:0;border-radius:10px;padding:12px 14px;background:#111;color:#fff;font-size:15px;font-weight:600;margin:3px}button.secondary{background:#fff;color:#111;border:1px solid #bbb}.controls{display:flex;flex-wrap:wrap;gap:4px}#status{width:100%;font-size:13px;color:#555}.sheet-wrap{padding:0 8px 24px}.sheet{background:white;width:min(100%,780px);margin:auto;padding:5mm;box-shadow:0 2px 14px #0001}.print-heading{height:6mm;display:flex;justify-content:space-between;align-items:center;font-size:8pt;padding:0 1mm 1mm}.grid{display:grid;grid-template-columns:repeat(5,minmax(0,1fr));grid-template-rows:repeat(6, 1fr)}.cell{height:34.5mm;min-width:0;border:.25mm dashed #666;display:flex;align-items:center;justify-content:center;padding:1mm;overflow:hidden}.qr,.qr img,.qr canvas{width:23mm!important;height:23mm!important;display:block;image-rendering:pixelated}.history details{background:white;border:1px solid #ddd;border-radius:12px;padding:12px}.history summary{font-weight:650;cursor:pointer}.history-note,.history-item p{font-size:13px;color:#555}.history-item{border-top:1px solid #ddd;padding:12px 0}.history-item h3{font-size:15px;margin:0 0 4px}.codes{font:12px ui-monospace,monospace;white-space:pre-wrap;overflow-wrap:anywhere;background:#f6f6f6;padding:8px;border-radius:6px}.small-actions{display:flex;flex-wrap:wrap}.small-actions button{font-size:12px;padding:8px 10px}.empty{font-size:13px;color:#666}
-@page{size:A4 portrait;margin:0}@media print{body{background:#fff}header,.controls,.history{display:none!important}.sheet-wrap{padding:0}.sheet{width:210mm;height:297mm;max-width:none;margin:0;padding:5mm;box-shadow:none}.print-heading{height:6mm}.grid{height:276mm;grid-template-rows:repeat(6, 1fr)}.cell{height:auto;break-inside:avoid}.qr,.qr img,.qr canvas{width:23mm!important;height:23mm!important}}
+*{box-sizing:border-box}body{margin:0;background:#f3f4f6;color:#111;font-family:-apple-system,BlinkMacSystemFont,sans-serif}header,.controls,.history{max-width:780px;margin:auto;padding:16px}h1{font-size:25px;margin:0 0 6px}.back-button{display:inline-block;padding:9px 14px;border-radius:10px;background:#fff;color:#123c67;text-decoration:none;border:1px solid #c9dbe9;font-weight:650}p{line-height:1.4}button{border:0;border-radius:10px;padding:12px 14px;background:#111;color:#fff;font-size:15px;font-weight:600;margin:3px}button.secondary{background:#fff;color:#111;border:1px solid #bbb}.controls{display:flex;flex-wrap:wrap;gap:4px}#status{width:100%;font-size:13px;color:#555}.sheet-wrap{padding:0 8px 24px}.sheet{background:white;width:min(100%,780px);margin:auto;padding:5mm;box-shadow:0 2px 14px #0001}.print-heading{height:6mm;display:flex;justify-content:space-between;align-items:center;font-size:8pt;padding:0 1mm 1mm}.grid{display:grid;grid-template-columns:repeat(5,minmax(0,1fr));grid-template-rows:repeat(6, 1fr);height:276mm}.cell{height:auto;min-width:0;border:.25mm dashed #666;display:flex;align-items:center;justify-content:center;padding:1mm;overflow:hidden}.qr,.qr img,.qr canvas{width:27.6mm!important;height:27.6mm!important;display:block;image-rendering:pixelated}.history details{background:white;border:1px solid #ddd;border-radius:12px;padding:12px}.history summary{font-weight:650;cursor:pointer}.history-note,.history-item p{font-size:13px;color:#555}.history-item{border-top:1px solid #ddd;padding:12px 0}.history-item h3{font-size:15px;margin:0 0 4px}.codes{font:12px ui-monospace,monospace;white-space:pre-wrap;overflow-wrap:anywhere;background:#f6f6f6;padding:8px;border-radius:6px}.small-actions{display:flex;flex-wrap:wrap}.small-actions button{font-size:12px;padding:8px 10px}.empty{font-size:13px;color:#666}
+@page{size:A4 portrait;margin:0}@media print{body{background:#fff}header,.controls,.history{display:none!important}.sheet-wrap{padding:0}.sheet{width:210mm;height:297mm;max-width:none;margin:0;padding:4mm;box-shadow:none;overflow:hidden}.print-heading{height:5mm}.grid{height:280mm;grid-template-rows:repeat(6,minmax(0,1fr))}.cell{height:auto;break-inside:avoid}.qr,.qr img,.qr canvas{width:27.6mm!important;height:27.6mm!important}}
 </style></head><body>
-<header><h1>Générateur QR Code</h1><p><a href="index.html" style="color:#2678b8">← Retour à MonCongélo</a></p><p>30 QR codes par feuille A4. Aucun identifiant n’est imprimé sous les codes.</p></header>
+<header><h1>Générateur QR Code</h1><p style="display:flex;justify-content:flex-end"><a href="index.html" class="back-button">‹ Retour</a></p><p>30 QR codes par feuille A4. Aucun identifiant n’est imprimé sous les codes.</p></header>
 <div class="controls"><button id="generate">Nouvelle planche (30 codes)</button><button id="print" class="secondary">Imprimer / enregistrer en PDF</button><button id="historyBtn" class="secondary">Voir l’historique</button><div id="status" role="status">Préparation des codes…</div></div>
 <div class="sheet-wrap"><main class="sheet"><div class="print-heading"><span id="printTitle">Planche QR</span><span id="printDate"></span></div><div class="grid" id="grid" aria-label="Planche de 30 QR codes"></div></main></div>
 <section class="history" id="historySection"><details id="historyDetails"><summary>Historique des planches générées</summary><p class="history-note">Historique conservé dans ce navigateur sur cet appareil. Les identifiants ne sont pas imprimés. Vous pouvez les afficher ou les copier ici.</p><div id="historyList"></div><button id="clearHistory" class="secondary">Effacer l’historique</button></details></section>

diff --git a/sw.js b/sw.js
@@ -1,4 +1,4 @@
-const CACHE='moncongelo-v1';
+const CACHE='moncongelo-v2';
 const FILES=['./','./index.html','./manifest.json','./icon-192.png','./icon-512.png','./qr-generator.html'];
 self.addEventListener('install',e=>e.waitUntil(caches.open(CACHE).then(c=>c.addAll(FILES))));
 self.addEventListener('activate',e=>e.waitUntil(caches.keys().then(keys=>Promise.all(keys.filter(k=>k!==CACHE).map(k=>caches.delete(k))))));
